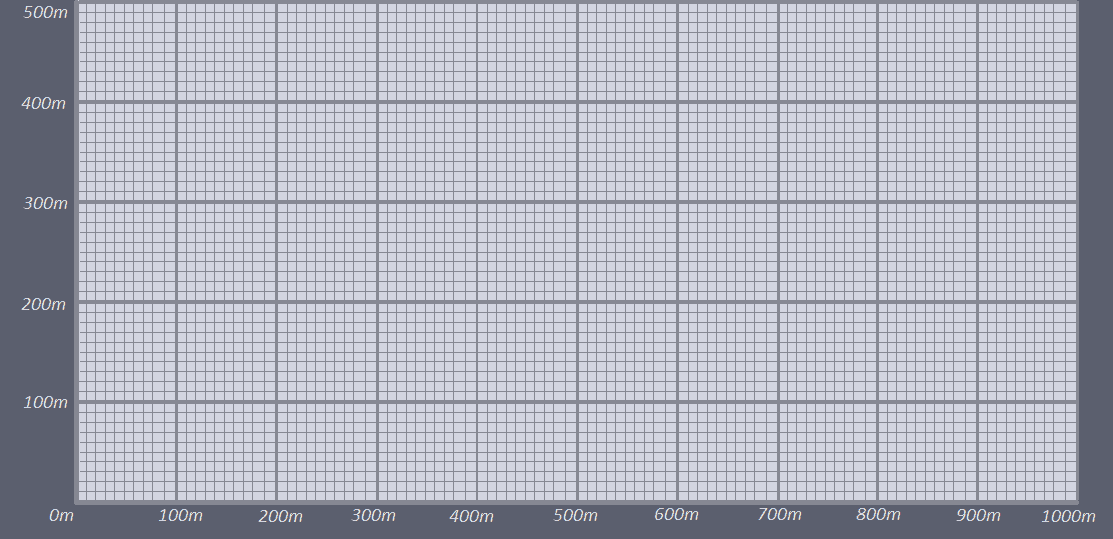
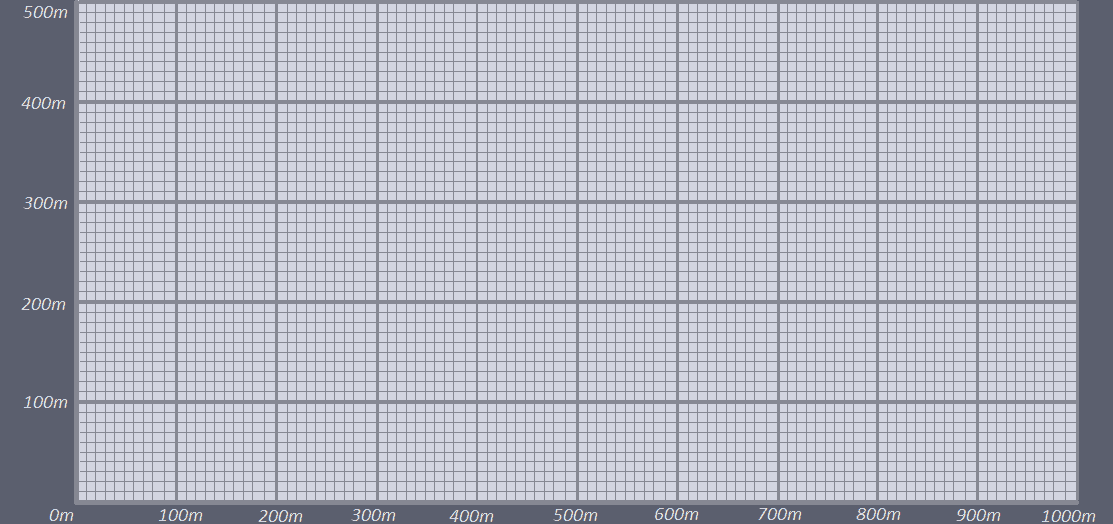
new style

Changed region(s): [[0.0, 0.0, 0.9775, 0.6412], [0.0, 0.6718, 1.0, 1.0], [0.0305, 0.0, 0.0611, 0.0305]]

diff --git a/rzut_ukosny/index.html b/rzut_ukosny/index.html
@@ -2,67 +2,69 @@
 <html>
 <head>
 	<link rel="stylesheet" type="text/css" href="style.css">
-	<link href="https://fonts.googleapis.com/css2?family=Caveat&display=swap" rel="stylesheet">
 	<script src="p5.min.js" ></script>
 	<script src="jquery-3.5.1.min.js"></script>
 	<script src="sketch.js"></script>
 </head>
 <body>
-	<div id = "container">
-		<div id = "welcome">Symulator rzutu ukośnego piłką</div>
-		<div id="container_data">
-			<div class="info_anim" > &nbspwysokość:
-				<div id="wysokosc" class="value" style="float: right;"> &nbsp0.00 m</div>
-				<div style="clear:both;"></div>
+	<div style="display: inline-block;">
+		<div id = "container">
+			<div id = "welcome">Symulator rzutu ukośnego piłką</div>
+			<div id="container_data">
+				<div class="info_anim" > &nbspwysokość:
+					<div id="wysokosc" class="value" style="float: right;"> &nbsp0.00 m</div>
+					<div style="clear:both;"></div>
+				</div>
+				<div class = "info_anim" class="value"> &nbspprędkość:
+					<div id="predkosc" class="value" style="float: right;">&nbsp0.00 m/s</div>
+					<div style="clear:both;"></div>
+				</div>
+				<div class = "info_anim" class="value" id="time"> &nbspczas:
+					<div id="czas" class="value" style="float: right;">&nbsp0.00 s</div>
+					<div style="clear:both;"></div>
+				</div>
+				<div class = "info_anim" class="value" id="distance"> &nbspodległość:
+					<div id="odleglosc" class="value" style="float: right;">&nbsp0.00 m</div>
+					<div style="clear:both;"></div>
+				</div>
+				<div style="clear:both"></div>
 			</div>
-			<div class = "info_anim" class="value"> &nbspprędkość:
-				<div id="predkosc" class="value" style="float: right;">&nbsp0.00 m/s</div>
-				<div style="clear:both;"></div>
+			<div id = "main"></div>
+			<div id = "menu">
+				<!-- potwierdzenie wejścia - confirmation for input -->
+				<div class = "con_for_input">
+					<div class = "info1"> prędkość początkowa [m/s]</div>
+					<input id="velocity" type="text" class = "input_text"></input>
+					<button class = "input" id="vel_button"> OK </button>
+					<div class="info" id="info_velocity"> liczba z przedziału (0,1113)</div>
+				</div>
+				<div class = "con_for_input">
+					<div class="info1"> kąt rzutu [°] </div>
+					<input id="angle" type="text" class = "input_text"></input>
+					<button class = "input" id="angle_button"> OK </button>
+					<div class="info" id="info_angle">liczba z przedziału (-90, 90)</div>
+				</div>
+				<div class = "con_for_input">
+					<div class="info1">początkowa wysokość [m]</div>
+					<input id="height" type="text" class = "input_text"></input>
+					<button class = "input" id="h"> OK </button>
+					<div class="info" id="info_height">liczba z przedziału (0,500)</div>
+				</div>
+				<div class = "con_for_input">
+					<div id="opor_info"> opór ośrodka<br>&nbsp(na przykład powietrza)&nbsp</div>
+					<input type="checkbox" id="check_air"></input>
+				</div>
+				<div style="clear:both"></div>
 			</div>
-			<div class = "info_anim" class="value" id="time"> &nbspczas:
-				<div id="czas" class="value" style="float: right;">&nbsp0.00 s</div>
-				<div style="clear:both;"></div>
+			<div id="start">
+				<button id="start_button" class="begin">start</button>
+				<button id="pause_button" class="begin">pauza</button>
+				<button id="reset_button" class="begin">reset</button>
+				<div style="clear:both"></div>
 			</div>
-			<div class = "info_anim" class="value" id="distance"> &nbspodległość:
-				<div id="odleglosc" class="value" style="float: right;">&nbsp0.00 m</div>
-				<div style="clear:both;"></div>
-			</div>
-			<div style="clear:both"></div>
-		</div>
-		<div id = "main"></div>
-		<div id = "menu">
-			<!-- potwierdzenie wejścia - confirmation for input -->
-			<div class = "con_for_input">
-				<div class = "info1"> prędkość początkowa [m/s]</div>
-				<input id="velocity" type="text" class = "input_text"></input>
-				<button class = "input" id="vel_button"> OK </button>
-				<div class="info" id="info_velocity"> liczba z przedziału (0,1113)</div>
-			</div>
-			<div class = "con_for_input">
-				<div class="info1"> kąt rzutu [°] </div>
-				<input id="angle" type="text" class = "input"></input>
-				<button class = "input" id="angle_button"> OK </button>
-				<div class="info" id="info_angle">liczba z przedziału (-90, 90)</div>
-			</div>
-			<div class = "con_for_input">
-				<div class="info1">początkowa wysokość [m]</div>
-				<input id="height" type="text" class = "input"></input>
-				<button class = "input" id="h"> OK </button>
-				<div class="info" id="info_height">liczba z przedziału (0,500)</div>
-			</div>
-			<div class = "con_for_input">
-				<div id="opor_info"> opór ośrodka<br>&nbsp(na przykład powietrza)&nbsp</div>
-				<input type="checkbox" id="check_air"></input>
-			</div>
-			<div style="clear:both"></div>
-		</div>
-		<div id="start">
-			<button id="start_button" class="begin">start</button>
-			<button id="pause_button" class="begin">pauza</button>
-			<button id="reset_button" class="begin">reset</button>
-			<div style="clear:both"></div>
 		</div>
 	</div>
+
 
 
 </body>

diff --git a/rzut_ukosny/sketch.js b/rzut_ukosny/sketch.js
@@ -24,7 +24,7 @@ let confirmed_angle = false; // flaga, true jeżeli poprawny kąt został podany
 let confirmed_v = false; // flaga, true jeżeli poprawna prędkość początkowa została podana przez użytkownika
 
 function setup(){
-  myCanvas = createCanvas(1113, 537);
+  myCanvas = createCanvas(1113, 524);
   myCanvas.parent('main');
   img = loadImage('img/wykres.png');
   frameRate(100);
@@ -128,15 +128,15 @@ function draw(){
       //jeżeli użytkownik kliknął myszką w którymś miejscu układu współrzędnych, a nie były jeszcze ustalone
       //wartośći Vx i Vy to beginVx i beginVy zostaną zaaktualizowane.
       //Innymi słowy, flaga setData aktywna
-      draw_x = beginVx + 73;
-      draw_y = beginVy + e.y;
+      draw_x = beginVx + 75;
+      draw_y = beginVy + e.y + 7;
     }
     else{
       //flaga setData jest nieaktywna, czyli użytkownik wybiera jeszcze myszką Vx i Vy
       draw_x = mouseX;
       draw_y = mouseY;
-      $('#angle')[0].value = Math.round(angle(mouseX - 73, mouseY - e.y)*180/Math.PI * 100) / 100; //obliczanie kąta z dokładnością do 2 miejsc po przecinku
-      $('#velocity')[0].value = Math.round(velocity(mouseX-73, mouseY-e.y) * 100) / 100; // analogicznie prędkość początkowa
+      $('#angle')[0].value = Math.round(angle(mouseX - 75, mouseY - e.y - 7)*180/Math.PI * 100) / 100; //obliczanie kąta z dokładnością do 2 miejsc po przecinku
+      $('#velocity')[0].value = Math.round(velocity(mouseX-75, mouseY-e.y-7) * 100) / 100; // analogicznie prędkość początkowa
       $('#height')[0].value = Math.round((493-e.y) * 100) / 100; // oraz wysokość
     }
     line(73,e.y,draw_x,draw_y);
@@ -163,8 +163,8 @@ function draw(){
     textSize(17);
     fill(0);
     //wypisuje obok kropek aktualne wartości Vx i Vy
-    text((parseInt(-draw_y + e.y,10)).toString()+'m/s', draw_x,(e.y+draw_y)/2);
-    text((parseInt(draw_x - 73)).toString()+'m/s', draw_x/2,draw_y);
+    text((parseInt(Math.round(-draw_y + e.y + 7),10)).toString()+'m/s', draw_x,(e.y+draw_y)/2);
+    text((parseInt(Math.round(draw_x - 75))).toString()+'m/s', draw_x/2,draw_y);
     fill(91,95,102);
     strokeWeight(1);
     ellipse(e.x,e.y,15,15);
@@ -188,8 +188,10 @@ function mouseClicked(){
   if(!startedAnimation && !setData && mouseX >= 73 && mouseX <= sizeX + 73 && mouseY >= 0 && mouseY <= sizeY){
     //jeżeli myszka zostanie kliknięta na układ współrzędnych i flaga setData jest nieaktywna,
     //to ustalamy parametry animacji na podstawie położenia myszki i setData = true
-    beginVx = mouseX - 73;
-    beginVy = mouseY - e.y;
+    beginVx = mouseX - 75;
+    beginVy = mouseY - e.y - 7;
+    console.log(beginVx);
+    console.log(beginVy);
     setData = true;
   }
   else if(!startedAnimation && setData && mouseX >= 73 && mouseX <= sizeX + 73 && mouseY >= 0 && mouseY <= sizeY){
@@ -290,7 +292,7 @@ function confirm_angle(){
   angle = angle.replace(",",".");
   let reg = /-*\d+(\.\d+)?/;
   if(reg.test(angle) && angle > -90 && angle < 90){ // sprawdza czy kąt jest liczbą z przedziału -90 do 90
-    $('#info_angle')[0].style.color = 'black';
+    $('#info_velocity').css("color","rgba(232, 232, 233,0.9)");
   }
   else{
     $('#info_angle')[0].style.color = 'red'; // podświetla uwagę na czerwono i nie pozwala przejść dalej
@@ -311,7 +313,7 @@ function confirm_velocity(){
   v = v.replace(",",".");
   let reg = /\d+(\.\d+)?/;
   if(reg.test(v) && v > 0 && v < 1113){
-    $('#info_velocity')[0].style.color = 'black';
+    $('#info_velocity').css("color","rgba(232, 232, 233,0.9)");
   }
   else{
     $('#info_velocity')[0].style.color = 'red';
@@ -331,7 +333,7 @@ function confirm_height(){
   height = height.replace(",",".");
   let reg = /\d+(\.\d+)?/;
   if(reg.test(height) && height >= 0 && height <= 500){
-    $('#info_height')[0].style.color = 'black';
+    $('#info_velocity').css("color","rgba(232, 232, 233,0.9)");
   }
   else{
     $('#info_height')[0].style.color = 'red';

diff --git a/rzut_ukosny/style.css b/rzut_ukosny/style.css
@@ -6,36 +6,43 @@ html{
 body{
 	margin: 0px;
 	height: 100%;
-	font-family: 'Caveat', cursive;
 	background-color: #000000;
 	color: rgba(232, 232, 233, 0.9);
 	text-align: center;
 }
 #container{
-	-webkit-box-shadow: 0px 0px 30px 7px rgba(0,0,0,0.8);
-	-moz-box-shadow: 0px 0px 30px 7px rgba(0,0,0,0.8);
-	box-shadow: 0px 0px 30px 7px rgba(0,0,0,0.8);
+	box-shadow: 0px 0px 86px -22px rgba(91,95,110,1);
 	margin: auto;
 	display: inline-block;
-	width: 1140px;
+	width: 1300px;
 	background-color: #5b5f6e;
 	border-radius: 15px;
 	border-style: groove;
+	position: relative;
+}
+
+#container_data{
+	display: inline-block;
 }
 
 .info_anim{
 	float: left;
+	box-shadow: 0px 0px 16px 12px rgba(69,74,92,1);
 	background-color:#454a5c;
 	border-radius: 15px;
-	font-size: 28px;
-	width: 240px;
+	font-size: 26px;
+	width: 270px;
 	margin: 20px;
 }
+
 .con_for_input{
 	float: left;
+	background-color:#454a5c;
+	box-shadow: 0px 0px 25px 20px rgba(69,74,92,1);
 	margin-left: 40px;
 	margin-right: 40px;
 	text-align: center;
+	border-radius: 15px;
 }
 .begin{
 	float: left;
@@ -48,18 +55,22 @@ body{
 	border-bottom-right-radius: 15px;
 }
 #menu{
+	margin-top: 18px;
 	margin-left: auto;
 	margin-right: auto;
-	width: 1060px;
+	margin-bottom: 0px;
+	display: inline-block;
 }
 .info1{
 	background-color:#454a5c;
+	font-size: 14px;
 	border-top-right-radius: 15px;
 	border-top-left-radius: 15px;
+	text-align: center;
 }
 #start{
-	margin-top: 5px;
-	margin-bottom: 5px;
+	margin-top: 7px;
+	margin-bottom: 4px;
 	width: 250px;
 	height: 20px;
 	margin-left: auto;
@@ -77,6 +88,10 @@ body{
 	border-radius: 15px;
 	background-color: #454a5c;
 }
+
+#main{
+	margin: 0px;
+}
 button{
 	background-color: #59b5d4;
 	border-radius: 15px;
@@ -85,10 +100,11 @@ button:hover{
 	background-color: #b3d0ff;
 }
 .value{
+	box-shadow: inset 0px 0px 9px 7px rgba(69,74,92,1);
 	background-color: white;
-	color: #5b5f6e;
-	border-bottom-right-radius: 15px;
-	border-top-right-radius: 15px;
+	color: #3b3f4e;
+	/*border-bottom-right-radius: 15px;
+	border-top-right-radius: 15px;*/
 	width: 140px;
 }
 #time{
@@ -100,9 +116,8 @@ button:hover{
 	margin: 0px;
 }
 .input_text{
+	box-shadow: inset 0px 0px 5px 3px rgba(69,74,92,1);
 	margin: 0px;
-}
-
-#text{
-	font-size: 1px;
+	border-radius: 15px;
+	text-align: center;
 }
